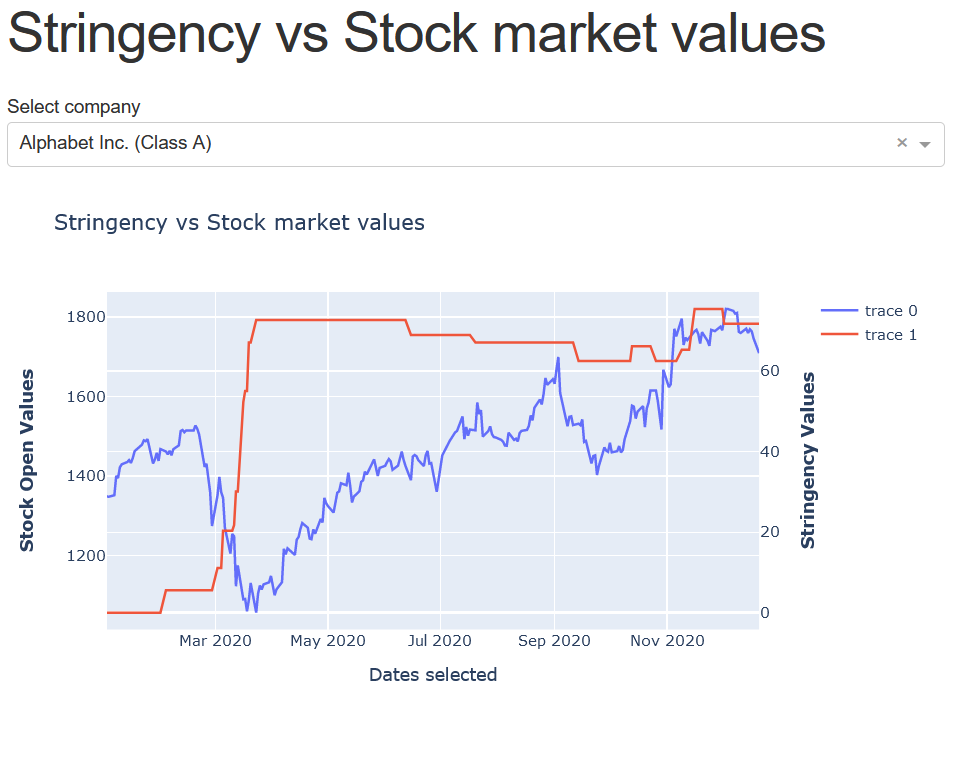
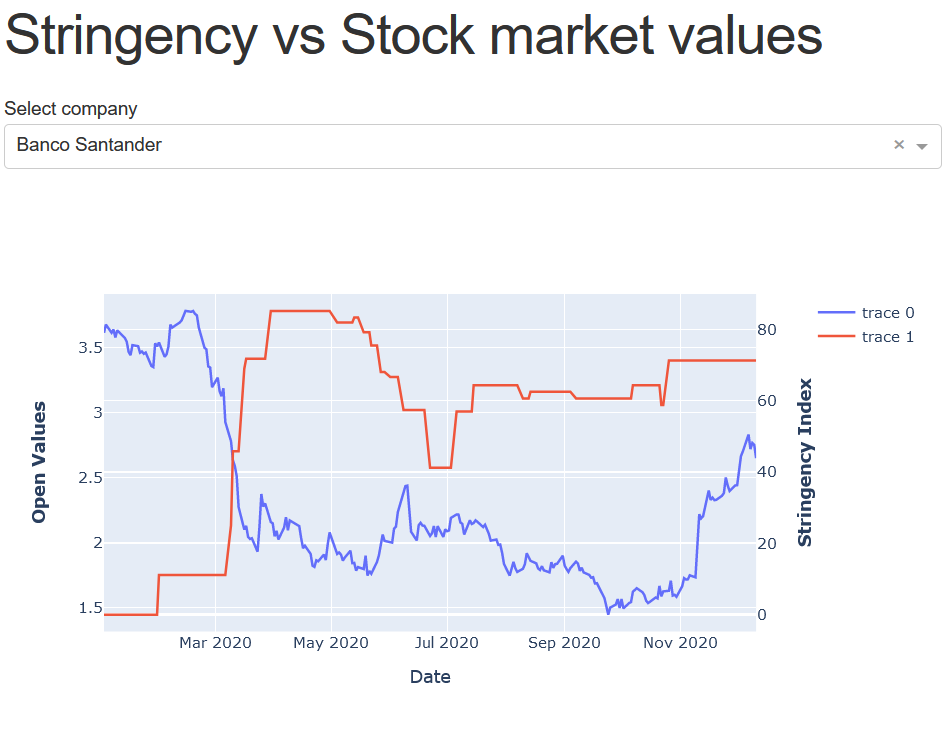
Updated Readme

diff --git a/Interface.py b/Interface.py
@@ -62,16 +62,16 @@ def update_myPlot(selected_company):
     fig.add_trace(go.Line(x=spain_df_p["date"], y=spain_df_p["stringency_index"]),
         secondary_y=True,
     )
-    fig.update_layout(
-        title_text="Stringency vs Stock market values"
-    )
+    # fig.update_layout(
+    #     title_text="Stringency vs Stock market values"
+    # )
     
     # Set x-axis title
-    fig.update_xaxes(title_text="Dates selected")
+    fig.update_xaxes(title_text="Date")
     
     # Set y-axes titles
-    fig.update_yaxes(title_text="<b>Stock Open Values</b>", secondary_y=False)
-    fig.update_yaxes(title_text="<b>Stringency Values</b>", secondary_y=True)
+    fig.update_yaxes(title_text="<b>Open Values</b>", secondary_y=False)
+    fig.update_yaxes(title_text="<b>Stringency Index</b>", secondary_y=True)
     
     fig.update_layout(transition_duration=500)
     
